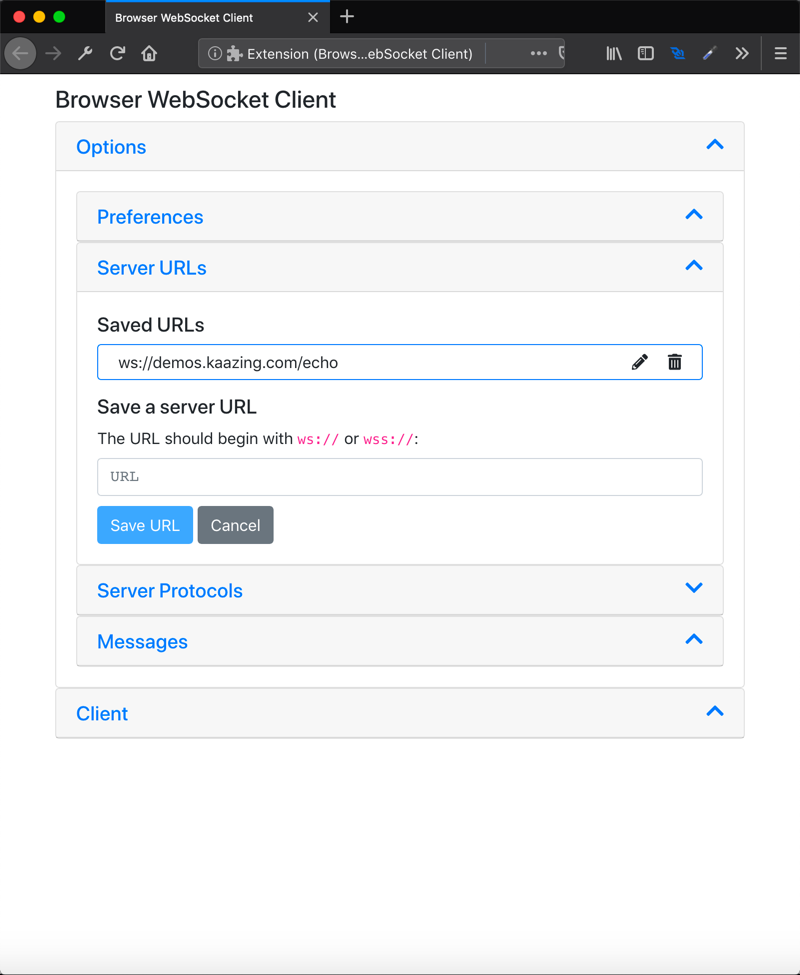
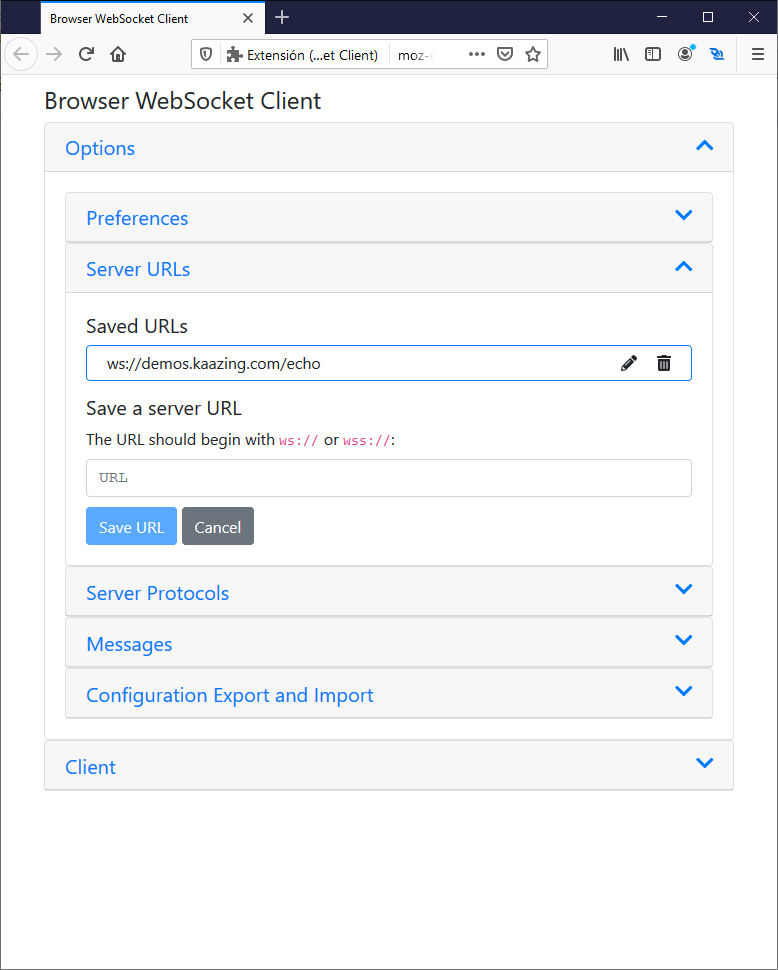
Update README

diff --git a/README.md b/README.md
@@ -32,7 +32,7 @@ Look for the blue WebSocket icon in the toolbar after installation:
 
 The screenshot below shows the "Client" section in use with a pretty-printed message modal on top. The message is formatted as a JavaScript Object with a single color for keys and different colors for values based on the type: boolean, null, number, and string.
 
-![screenshot_1](screenshots/firefox/screenshot_1.png?raw=true)
+![screenshot_1](screenshots/chrome/screenshot_1.png?raw=true)
 
 ### Options Section
 
@@ -46,25 +46,31 @@ The screenshot below shows the "Preferences" section. It allows you to control t
 * Allow or prevent saving message bodies with invalid JSON in the Options section
 * Allow or prevent using message bodies with invalid JSON Client section
 
-![screenshot_2](screenshots/firefox/screenshot_2.png?raw=true)
+![screenshot_2](screenshots/chrome/screenshot_2.png?raw=true)
 
 #### Server URLs
 
 The screenshot below shows the "Server URLs" section. It allows you to save URLs that you can use later in the Client section by selecting them from a dropdown menu. You can create, edit, and delete URLs. When creating or editing a URL you will receive a warning if the URL does not begin with `ws://` or `wss://` or if the URL contains spaces.
 
-![screenshot_3](screenshots/firefox/screenshot_3.png?raw=true)
+![screenshot_3](screenshots/chrome/screenshot_3.png?raw=true)
 
 #### Server Protocols
 
 The screenshot below shows the "Server Protocols" section. It allows you to save URLs that you can use later in the Client section by selecting them from a dropdown menu. You can create, edit, and delete protocols.
 
-![screenshot_4](screenshots/firefox/screenshot_4.png?raw=true)
+![screenshot_4](screenshots/chrome/screenshot_4.png?raw=true)
 
 #### Messages
 
 The screenshot below shows the "Messages" section. It allows you to save message names and bodies that you can use later in the Client section by selecting the message name from a dropdown menu. You can create, edit, and delete messages. You will receive a warning if the message body is not valid JSON. Note the toggle switch under the message body textarea. Use it to change the JSON formatting from single line to multi-line and vice versa. 
 
-![screenshot_5](screenshots/firefox/screenshot_5.png?raw=true)
+![screenshot_5](screenshots/chrome/screenshot_5.png?raw=true)
+
+#### Configuration Export and Import
+
+The screenshot below shows the "Configuration Export and Import" section. It allows you to export and import the whole plugin configuration including stored preferences, server URLs, server protocols and messages. This way you can easily backup and share your configuration. 
+
+![screenshot_5](screenshots/chrome/screenshot_6.png?raw=true)
 
 ## Manual Installation
 
@@ -110,6 +116,11 @@ The JavaScript is written in ES6.
 [jQuery](https://jquery.com) and [Bootstrap](https://getbootstrap.com) provide the heavy lifting.
 
 [Cypress](https://www.cypress.io) does all the testing.
+
+To run the tests:
+
+* Start [Serve](https://github.com/zeit/serve) using `npx serve` on the prject root folder
+* Execute `npx cypress open` in the tests folder at `src/test`
 
 ## Inspiration
 
